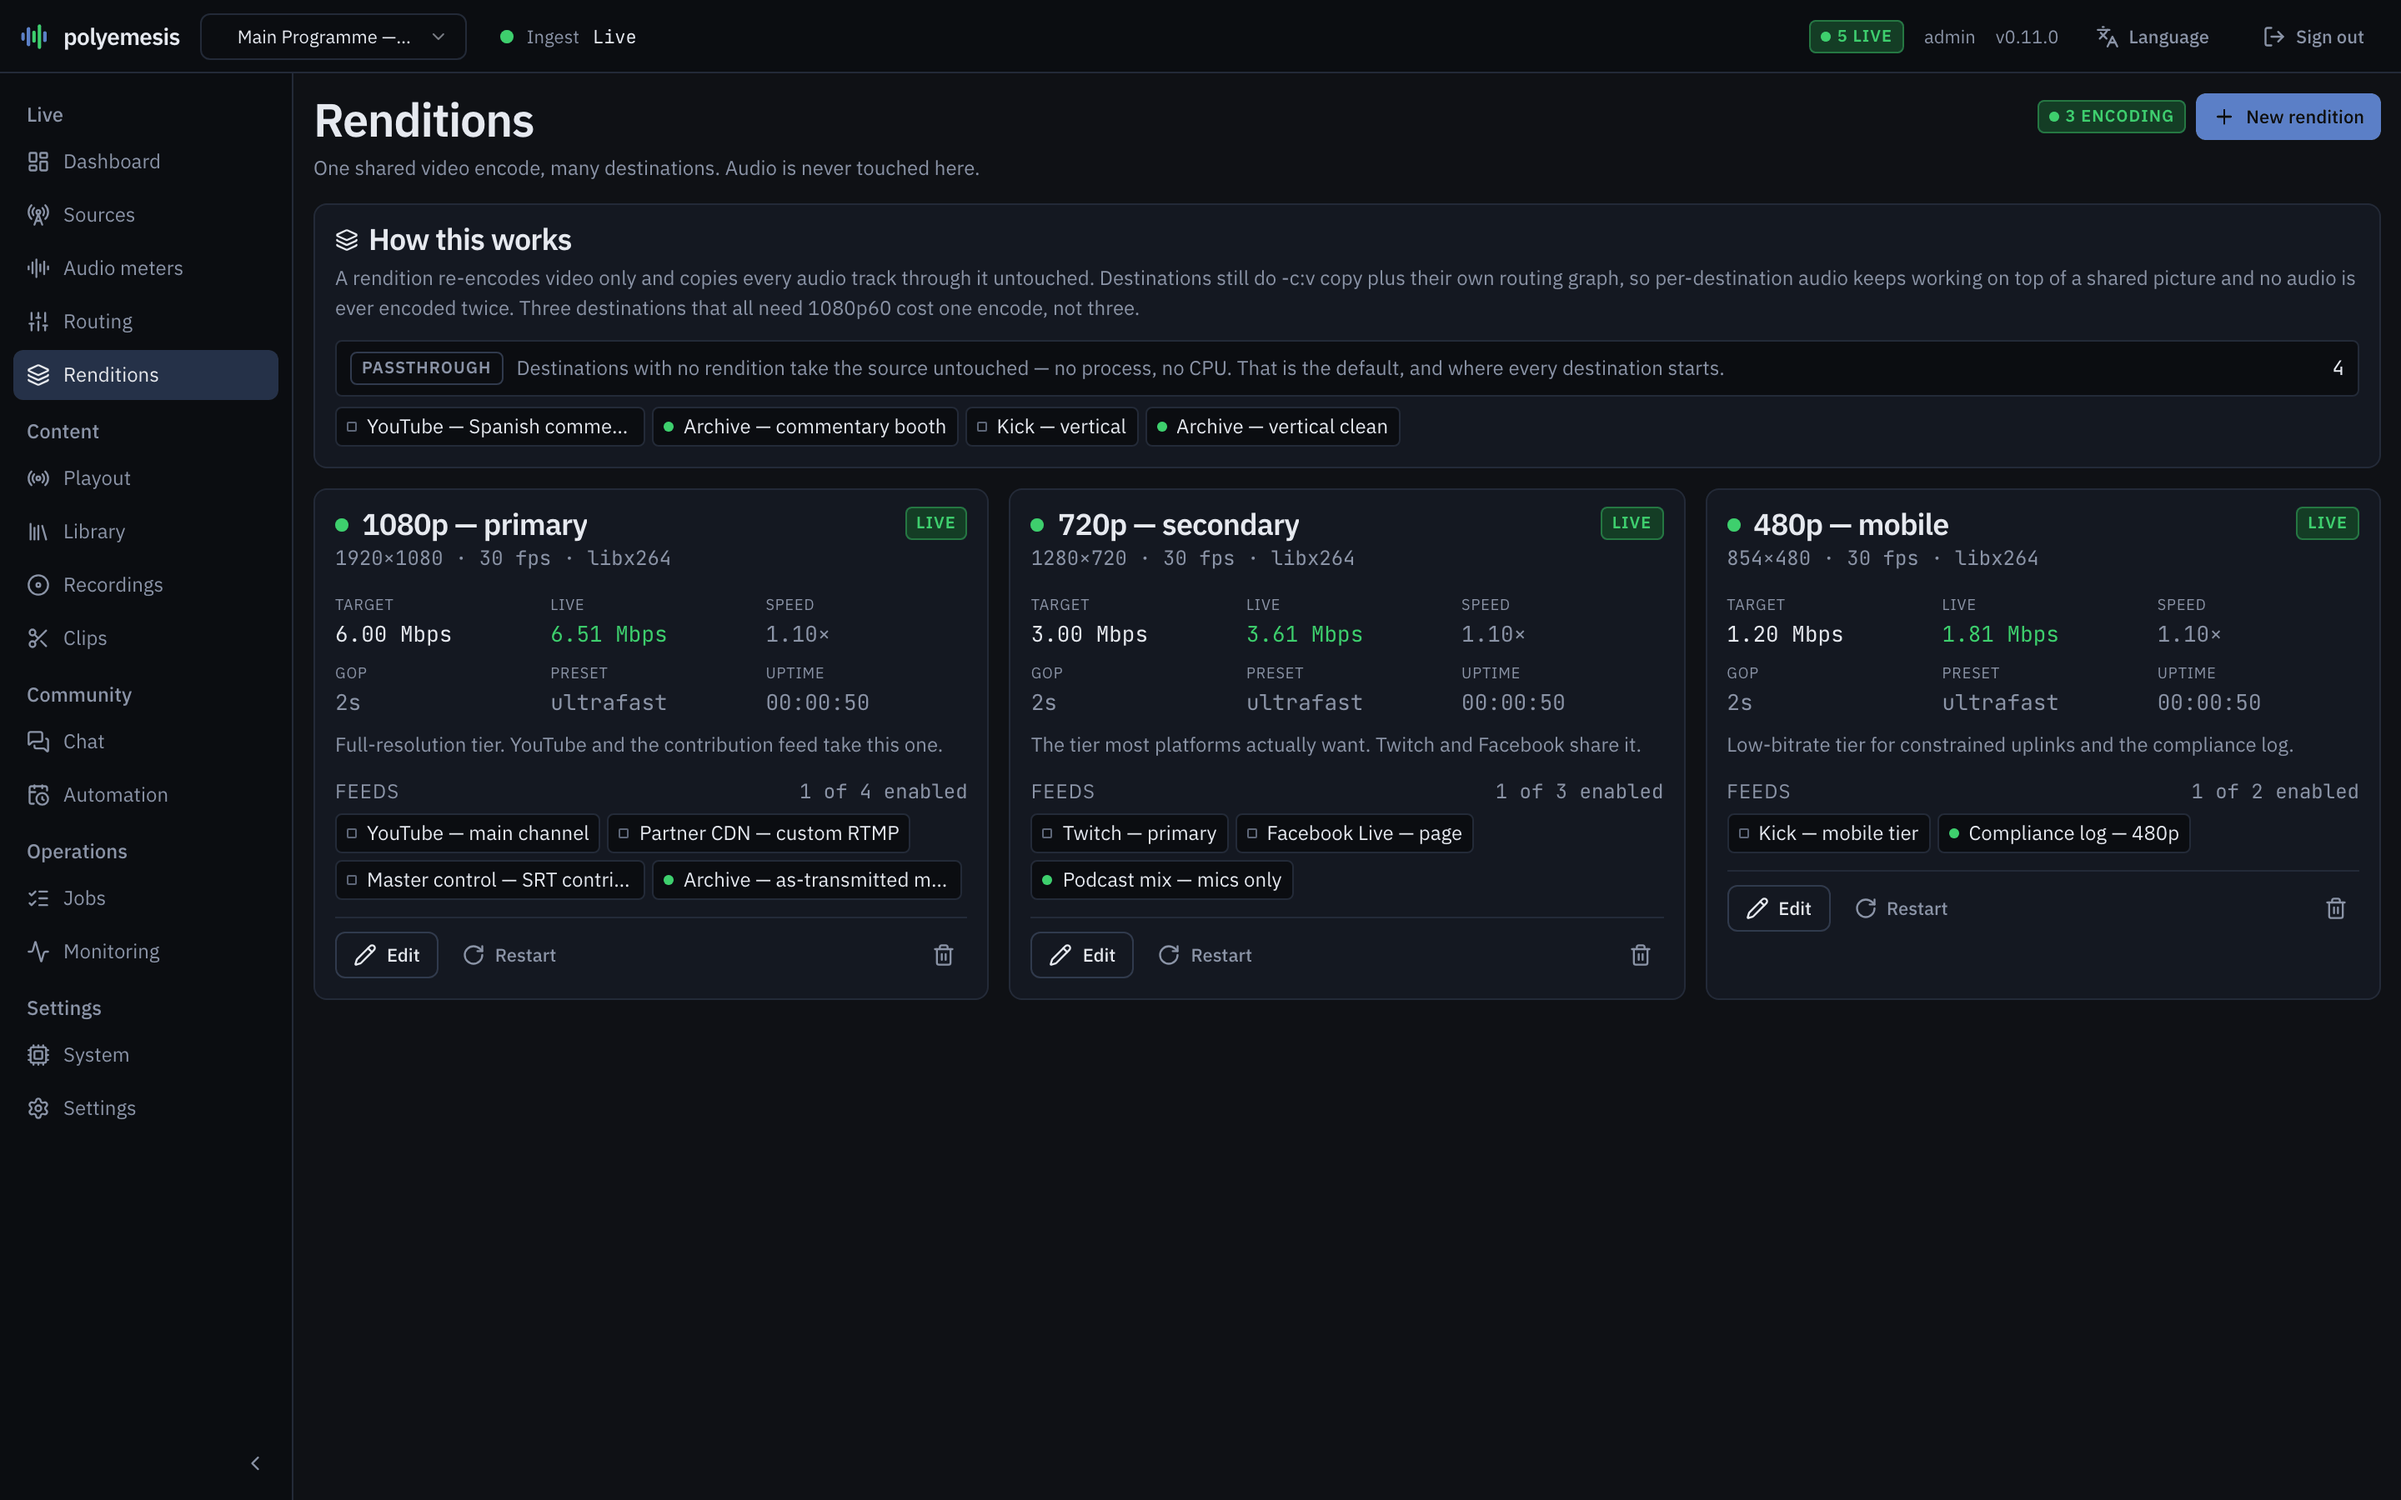
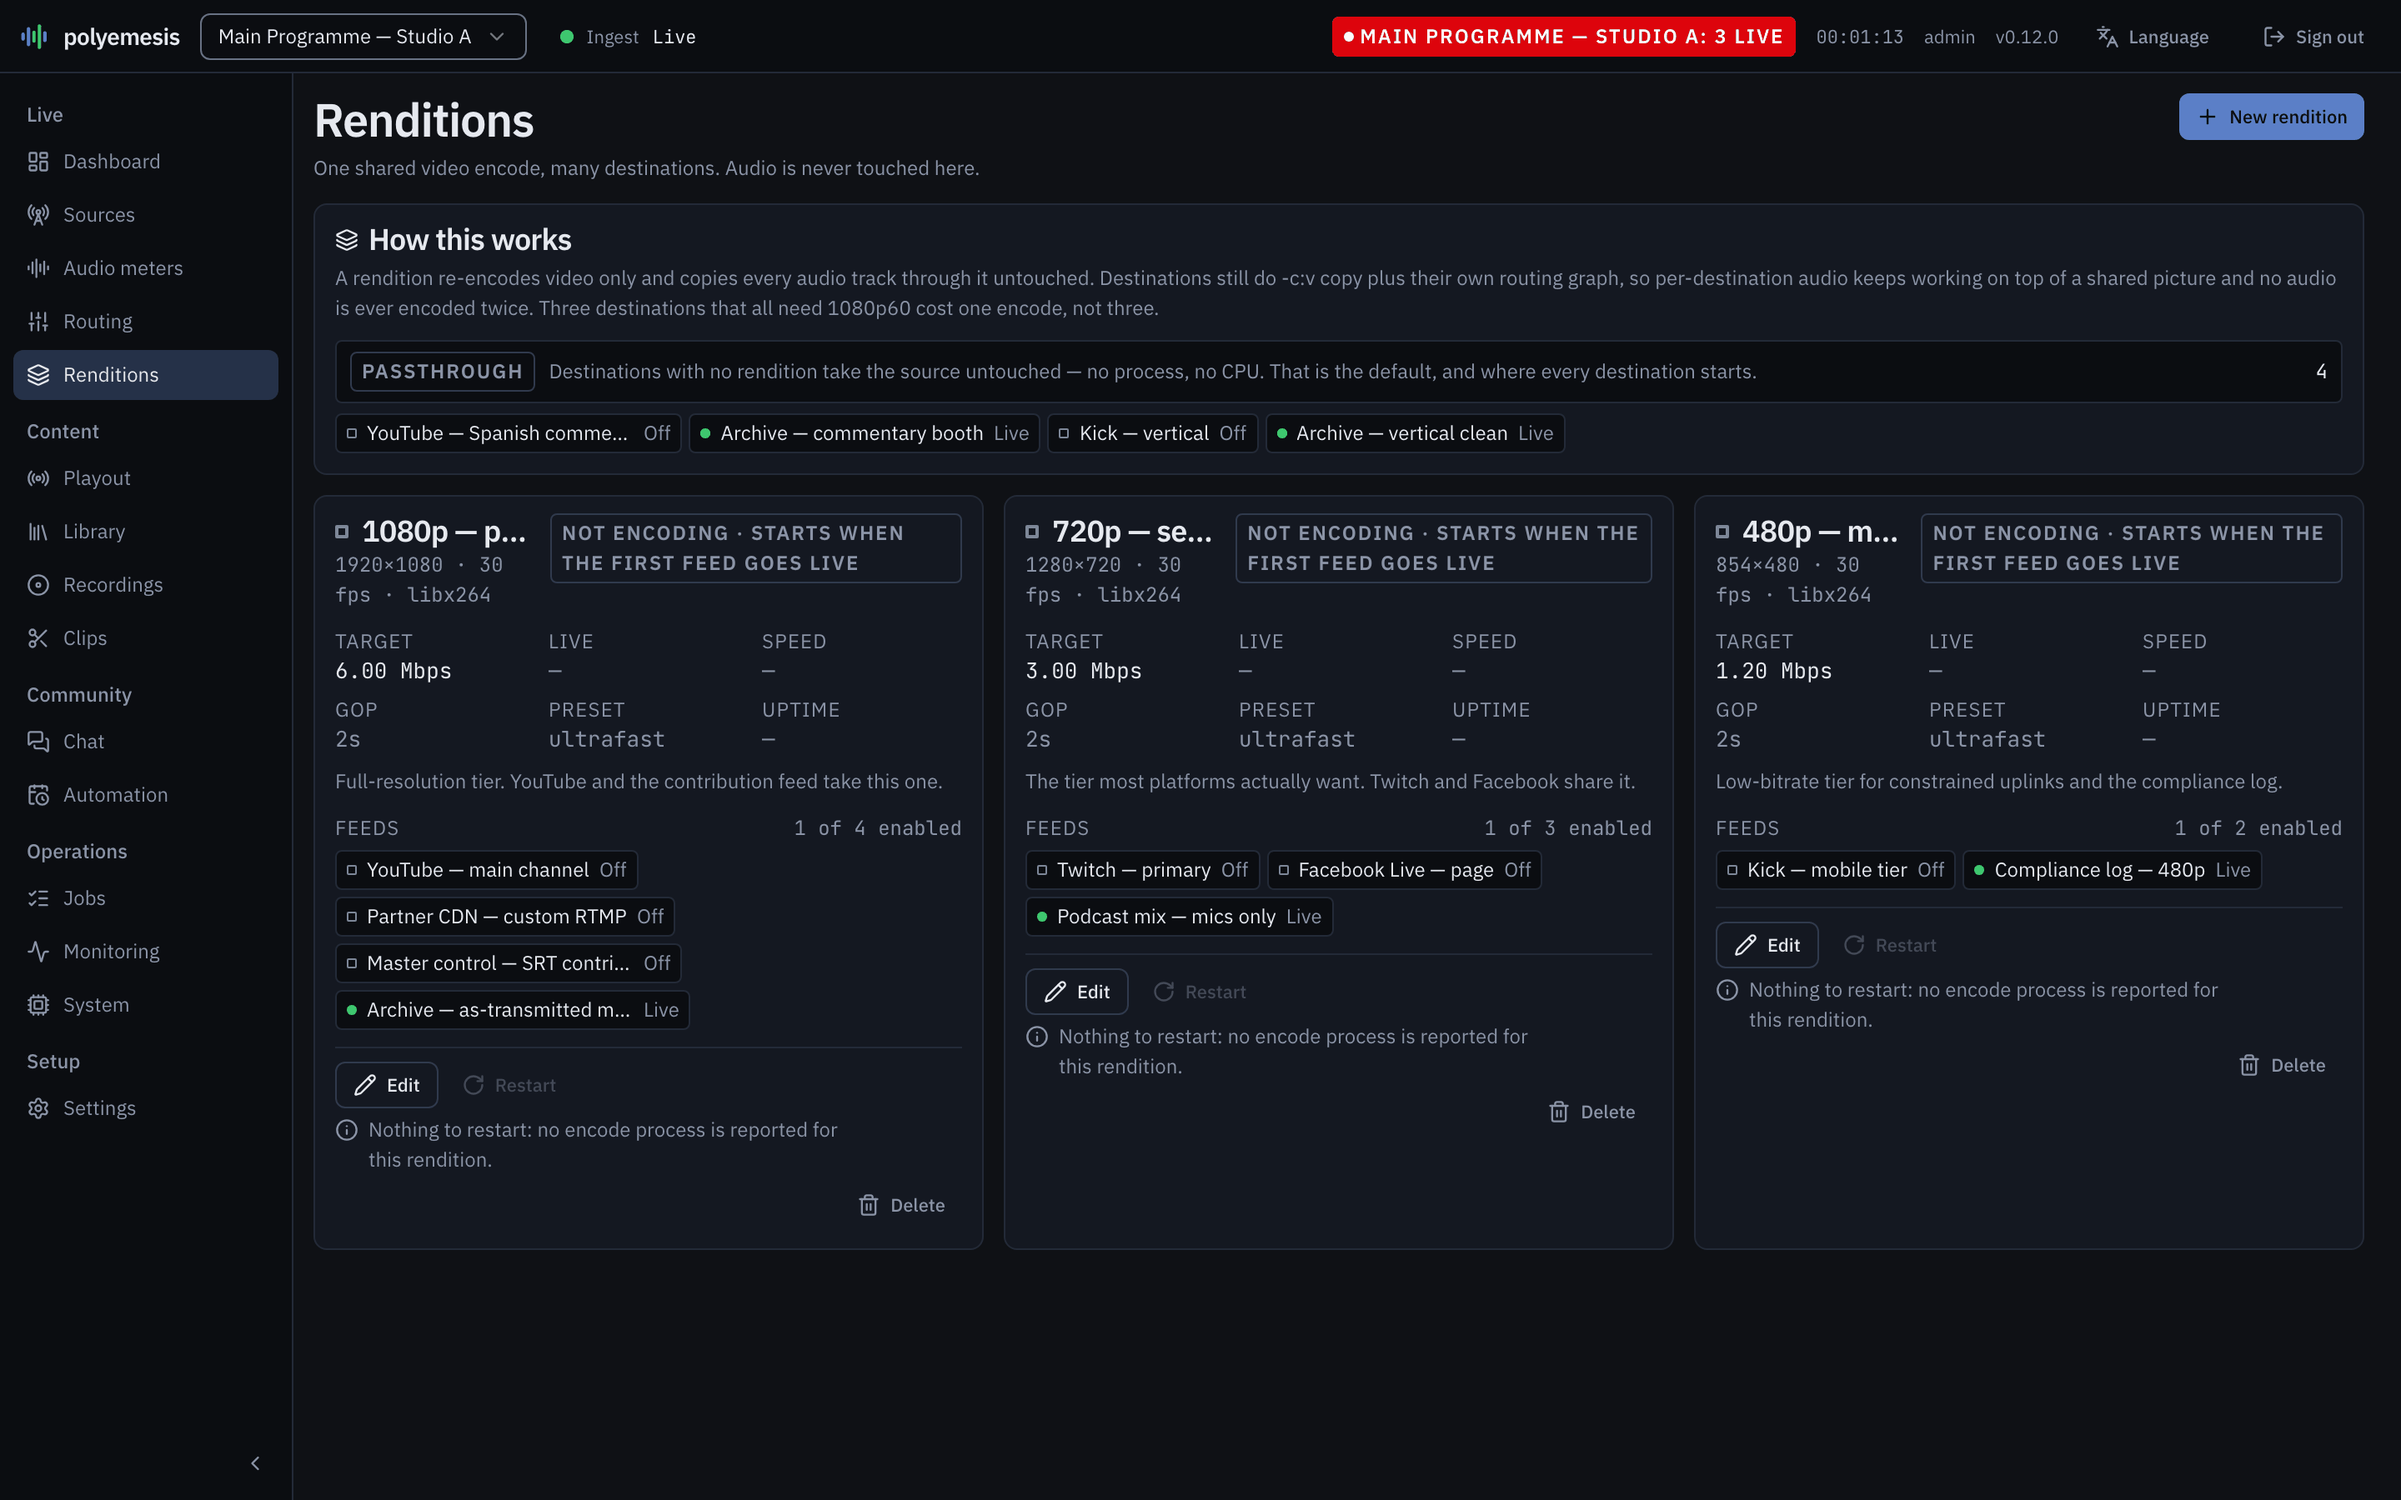
docs(site): copy and screenshots for v0.12.0 (#973)
* docs(site): copy for v0.12.0 - captions, clips and shorts, audience, X gate

- features: the recording section names the clip editor's highlights,
  vertical shorts and Publish; "And also" gains live captions, broadcast
  delay and cross-platform audience, each linking its doc; the platforms
  note describes X as built and switched off until X whitelists the app.
- home: three cards below the hero for captions, clips and shorts, and
  audience (the hero itself is untouched; #971 owns it).
- README: the same features, TikTok sign-in for clip publishing, X gated.
- comparison + COMPARISON.md: SRTLA joins SRT and RTMP as an ingest.
- docs/media/README: 02-routing-hero is no longer described as the hero.

Claude-Session: https://claude.ai/code/session_016Mn1KjjUD4CwGFdwYj55F2

* fix(capture): build on Alpine 3.24, and wait for the ingest chip

Both capture scripts built their image FROM alpine:3.20, whose ffmpeg is
6.1. Since FFmpeg 8.0 became the floor the server refuses to start on it,
so demo-seed.sh died at "server never answered /health" and
capture-media.sh would too. Alpine 3.24 (the release image's base) ships
FFmpeg 8.1.3 with libsrt.

settle() now waits for the header's ingest chip to leave "Stopped". The
chip reads Stopped until the page's first ingest reading arrives, and
pages that wait for no live data of their own were photographed in that
gap: "Ingest Stopped" beside a red "3 LIVE" tally.
[…]

diff --git a/web/src/styles/global.css b/web/src/styles/global.css
@@ -279,6 +279,19 @@
     overflow: hidden;
   }
 
+  /* The same grid behind the top of the other marketing pages (Base `grid`).
+     Sized like the home hero band so the fade lands at the same depth, and
+     sent behind the content: isolation keeps z-index -1 above the body's
+     ground instead of under it. */
+  .page-grid { position: relative; isolation: isolate; }
+  .page-grid-layer {
+    position: absolute;
+    inset: 0 0 auto;
+    height: 880px;
+    z-index: -1;
+    pointer-events: none;
+  }
+
   /* No sweep. A blue light used to pass across this grid every 19 seconds: a
      linear-gradient on ::after. Gradients appear only in the logo mark
      (docs/DESIGN-SYSTEM.md), and blue is for interaction, so a decorative blue
@@ -820,6 +833,18 @@
   }
   .doc-prose > :first-child { margin-top: 0; }
 
+  /* The page title, from the markdown's `# Heading`. Without this rule it fell
+     through to the reset and rendered as 16px body text; it now sits on the
+     same scale as every other page's h1 (text-4xl, sm:text-5xl, bold). */
+  .doc-prose h1 {
+    margin-bottom: 1.25rem;
+    font-size: 2.25rem;
+    line-height: 1.25;
+    font-weight: 700;
+    color: var(--color-fg);
+    text-wrap: balance;
+  }
+  @media (min-width: 640px) { .doc-prose h1 { font-size: 3rem; } }
   .doc-prose h2 {
     margin-top: 3rem;
     margin-bottom: 0.75rem;

diff --git a/ui/e2e/captureKit.ts b/ui/e2e/captureKit.ts
@@ -91,7 +91,20 @@ export async function topOfFrame(
 export async function settle(page: import("@playwright/test").Page, ms = 900) {
   await dismissBanners(page);
   await page.evaluate(() => document.fonts.ready);
+  await waitForIngestChip(page);
   await page.waitForTimeout(ms);
+}
+
+/** The header's ingest chip reads "Stopped" until the page's first ingest
+ *  reading arrives: no reading is labelled like a stopped process. A page that
+ *  does not wait for live data of its own (Sources, Renditions, Routing,
+ *  Settings) was photographed in that gap, with "Ingest Stopped" beside a red
+ *  "3 LIVE" tally. Wait for the chip to leave that state; if it never does,
+ *  the shot goes ahead and shows it, because then it is the truth. */
+async function waitForIngestChip(page: import("@playwright/test").Page) {
+  const chip = page.getByTestId("chrome-ingest-status");
+  if ((await chip.count()) === 0) return;
+  await expect(chip).not.toHaveText(/^Stopped$/, { timeout: 15_000 }).catch(() => {});
 }
 
 /** Photograph a page ONLY IF the frame is still true AT THE SHUTTER.

diff --git a/README.md b/README.md
@@ -66,7 +66,9 @@ hot. One upload, one video encode, different audio per platform.
   no limit in the software; upload bandwidth and CPU are the real ones, at
   roughly 4% of one core per destination.
 - **Platform sign-in** for YouTube, Twitch, Facebook and Kick, with chat and
-  metadata push where the API allows it. [→ PLATFORMS.md](docs/PLATFORMS.md)
+  metadata push where the API allows it. TikTok signs in for clip publishing.
+  X sign-in, go-live and chat are built and stay switched off until X
+  whitelists the app for its Livestream API. [→ PLATFORMS.md](docs/PLATFORMS.md)
 - **Chat moderation on all four** — delete, ban, timeout, and a moderator user
   card showing what one person has said across every platform at once, which no
   single platform's own tooling does.
@@ -76,7 +78,20 @@ hot. One upload, one video encode, different audio per platform.
 - **Failover** with a standby ingest, a generated slate, and a source selector
   that switches without restarting a single destination.
 - **Post-production**: segmented multitrack recording with retention, a job
-  queue, Whisper transcription with full-text search, and a clipper.
+  queue, Whisper transcription with full-text search, and a clip editor that
+  suggests highlights, exports 9:16 vertical shorts with burned-in captions,
+  and posts to YouTube Shorts or TikTok when you click Publish (TikTok posts
+  stay private until TikTok audits the app).
+  [→ CLIP-PUBLISHING.md](docs/CLIP-PUBLISHING.md)
+- **Live captions** — one audio track of a programme is transcribed on your
+  own machine and sent inside the Twitch stream, to YouTube's caption ingestion
+  (provisional), and as a Captions track on the public player, or burned into
+  a rendition. [→ CAPTIONS.md](docs/CAPTIONS.md)
+- **Cross-platform audience** — viewer counts from YouTube, Twitch, Kick and
+  the public player, live on the Dashboard and as a report per stream, with
+  CSV, Prometheus and MQTT exports. [→ MONITORING.md](docs/MONITORING.md#cross-platform-viewers)
+- **Broadcast delay** — hold one destination back by up to 15 minutes; every
+  other destination is unaffected. [→ BROADCAST-DELAY.md](docs/BROADCAST-DELAY.md)
 - **Prometheus metrics** and in-process alert rules with webhook delivery.
   [→ MONITORING.md](docs/MONITORING.md)
 - **A stream timeline** on the Monitoring page: failovers, destinations going

diff --git a/docs/media/README.md b/docs/media/README.md
@@ -75,8 +75,10 @@ empty form beneath it as the one-time setup.
 ### `02-routing-hero.png` is a clip; `07-monitoring.png` is framed on the processes
 
 `02-routing-hero.png` is a clip of the routing screen, the track rows and the
-music-rights switch for the selected destination, taken for the home page hero
-so it can be read at that size. `07-monitoring.png` is framed on the process
+music-rights switch for the selected destination, cropped so it stays legible
+at a small size. It was taken for the home page hero, which the animated
+SignalPath component replaces ([#971](https://github.com/rainmanjam/polyemesis/pull/971));
+the clip is kept for any page that needs the routing screen at that size. `07-monitoring.png` is framed on the process
 list, with the FFmpeg log filtered to one process (the preview, when it still
 has lines). Every child that decodes the relay joins it mid-GOP and logs a burst
 of h264 decoder errors until the first keyframe; the supervisor logs that burst

diff --git a/docs/COMPARISON.md b/docs/COMPARISON.md
@@ -192,7 +192,7 @@ this project does not approach.
 
 | What it has | polyemesis |
 |---|---|
-| **Protocol breadth** — an `src/output/` directory of muxers, including WebRTC and its own SRT output | SRT and RTMP in, RTMP/SRT out, HLS for preview |
+| **Protocol breadth** — an `src/output/` directory of muxers, including WebRTC and its own SRT output | SRT, SRTLA and RTMP in, RTMP/SRT out, HLS for preview |
 | **Per-push track selection**, on any target, by index or codec or `all` | Selection is per destination too, but the point here is the mix |
 | **Years of production deployment**, and a commercial vendor behind it | Pre-release, one maintainer |
 | **Selection without decoding.** A push target that only selects tracks is a pure copy end to end; transcoding is a separate opt-in process | Every destination decodes and re-encodes its audio, always, because that is what mixing is |
